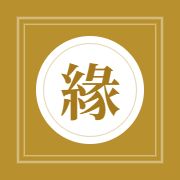
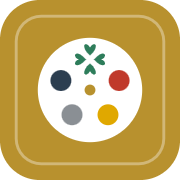
앱 아이콘: 오행 오색 + 네잎클로버(목) 심볼로 교체

diff --git a/sw.js b/sw.js
@@ -1,6 +1,6 @@
 // 오행 로또 서비스워커 — 앱 셸 오프라인 캐시
 // HTML은 network-first(항상 최신, 오프라인 시 캐시), 그 외 same-origin은 stale-while-revalidate.
-const CACHE = 'ohaeng-lotto-v2';
+const CACHE = 'ohaeng-lotto-v3';
 const CORE = [
   './', './index.html', './engine.browser.js', './jsQR.min.js',
   './manifest.json', './icon-192.png', './icon-512.png', './apple-touch-icon.png'
